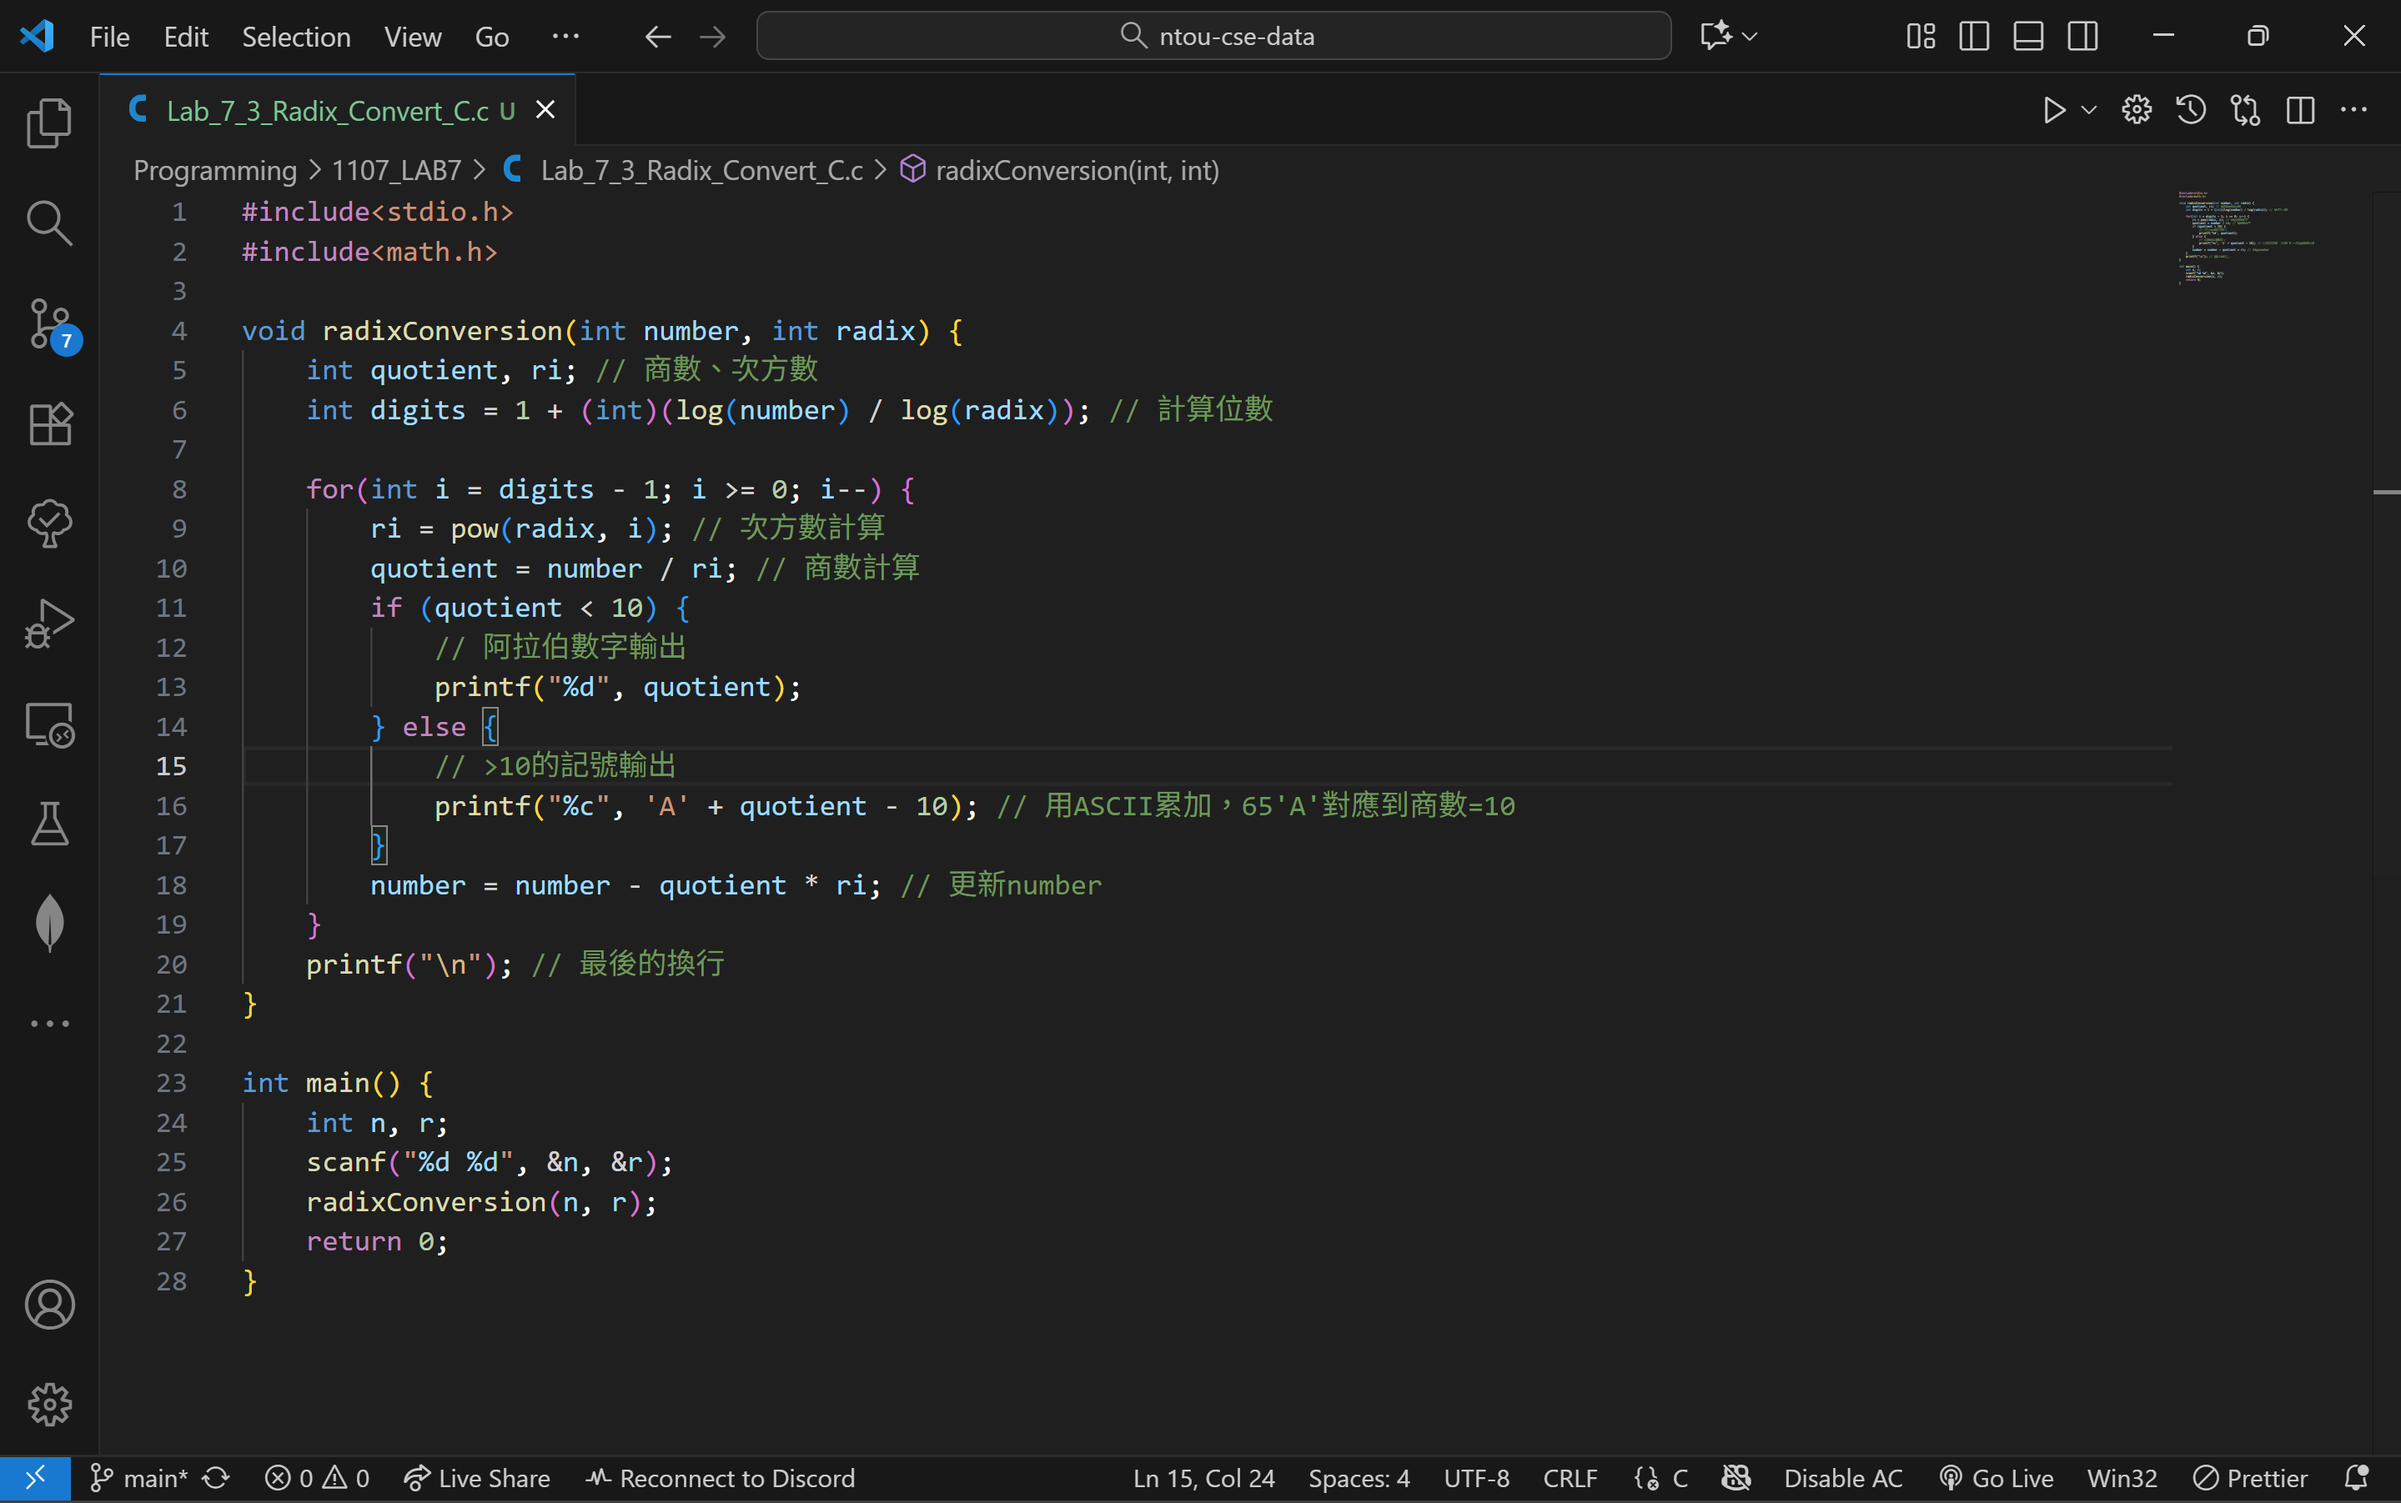
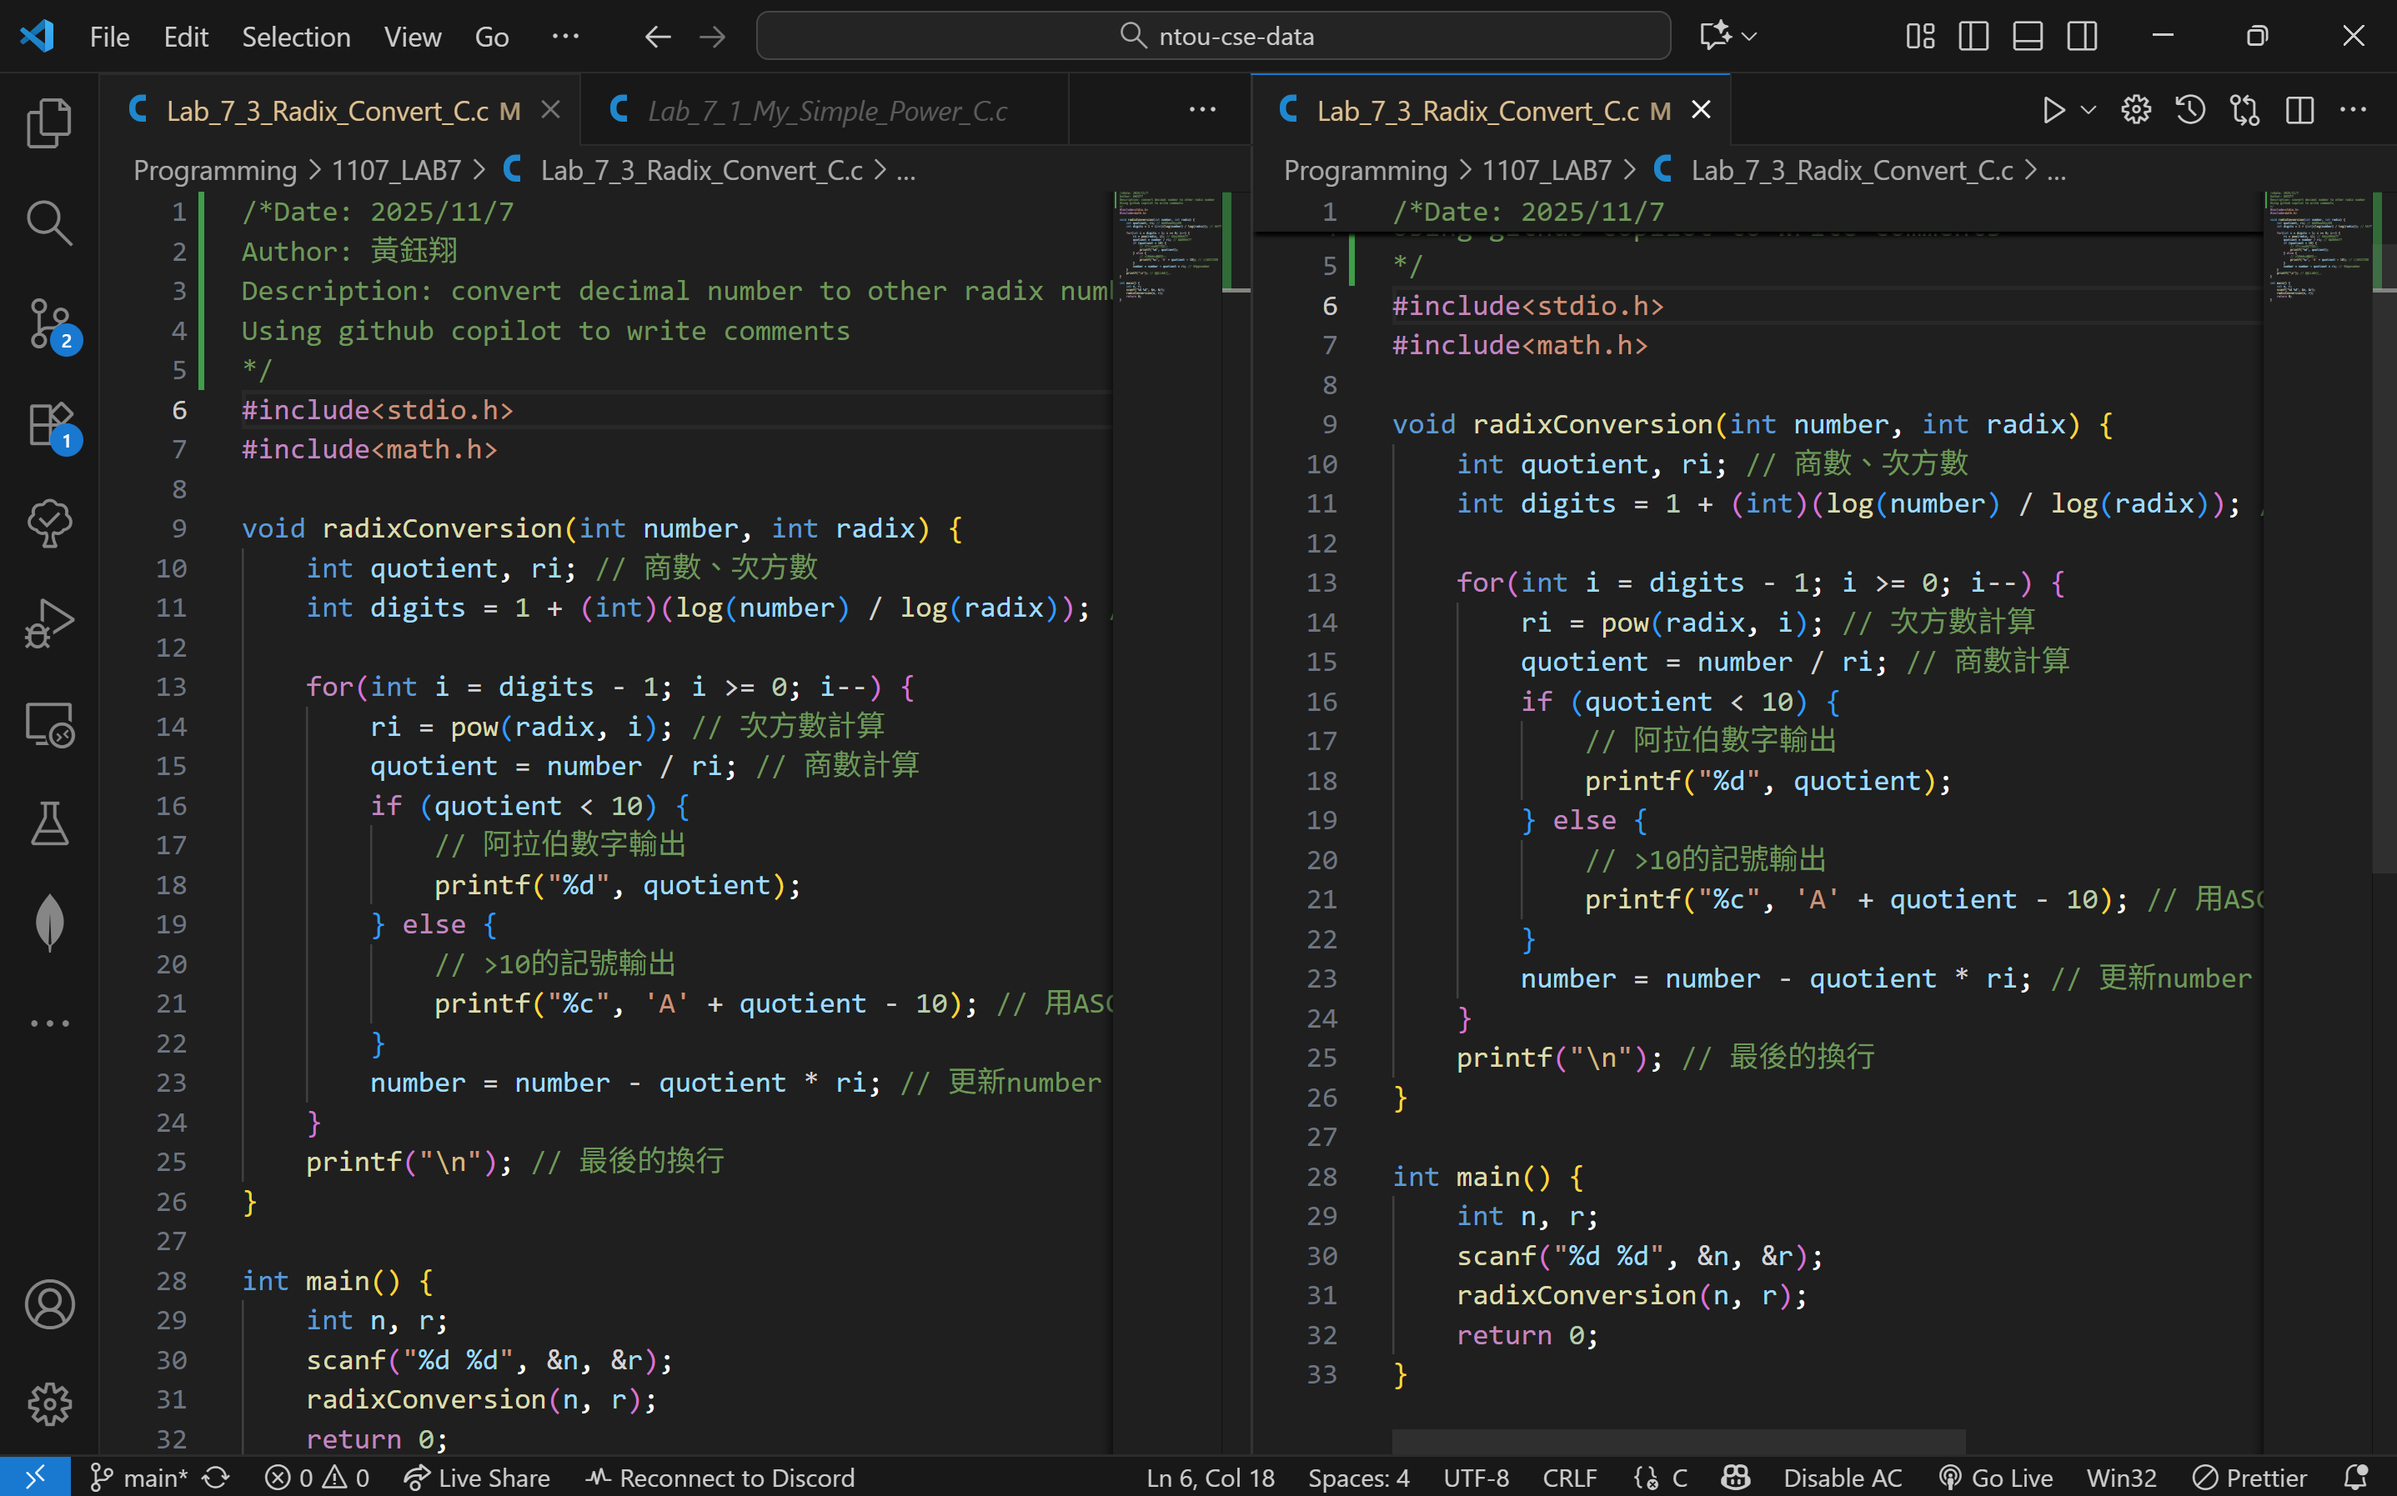
update: programming 1107

diff --git a/Programming/1107_LAB7/Lab_7_3_Radix_Convert_C.c b/Programming/1107_LAB7/Lab_7_3_Radix_Convert_C.c
@@ -1,3 +1,8 @@
+/*Date: 2025/11/7
+Author: 黃鈺翔
+Description: convert decimal number to other radix number
+Using github copilot to write comments
+*/
 #include<stdio.h>
 #include<math.h>
 
